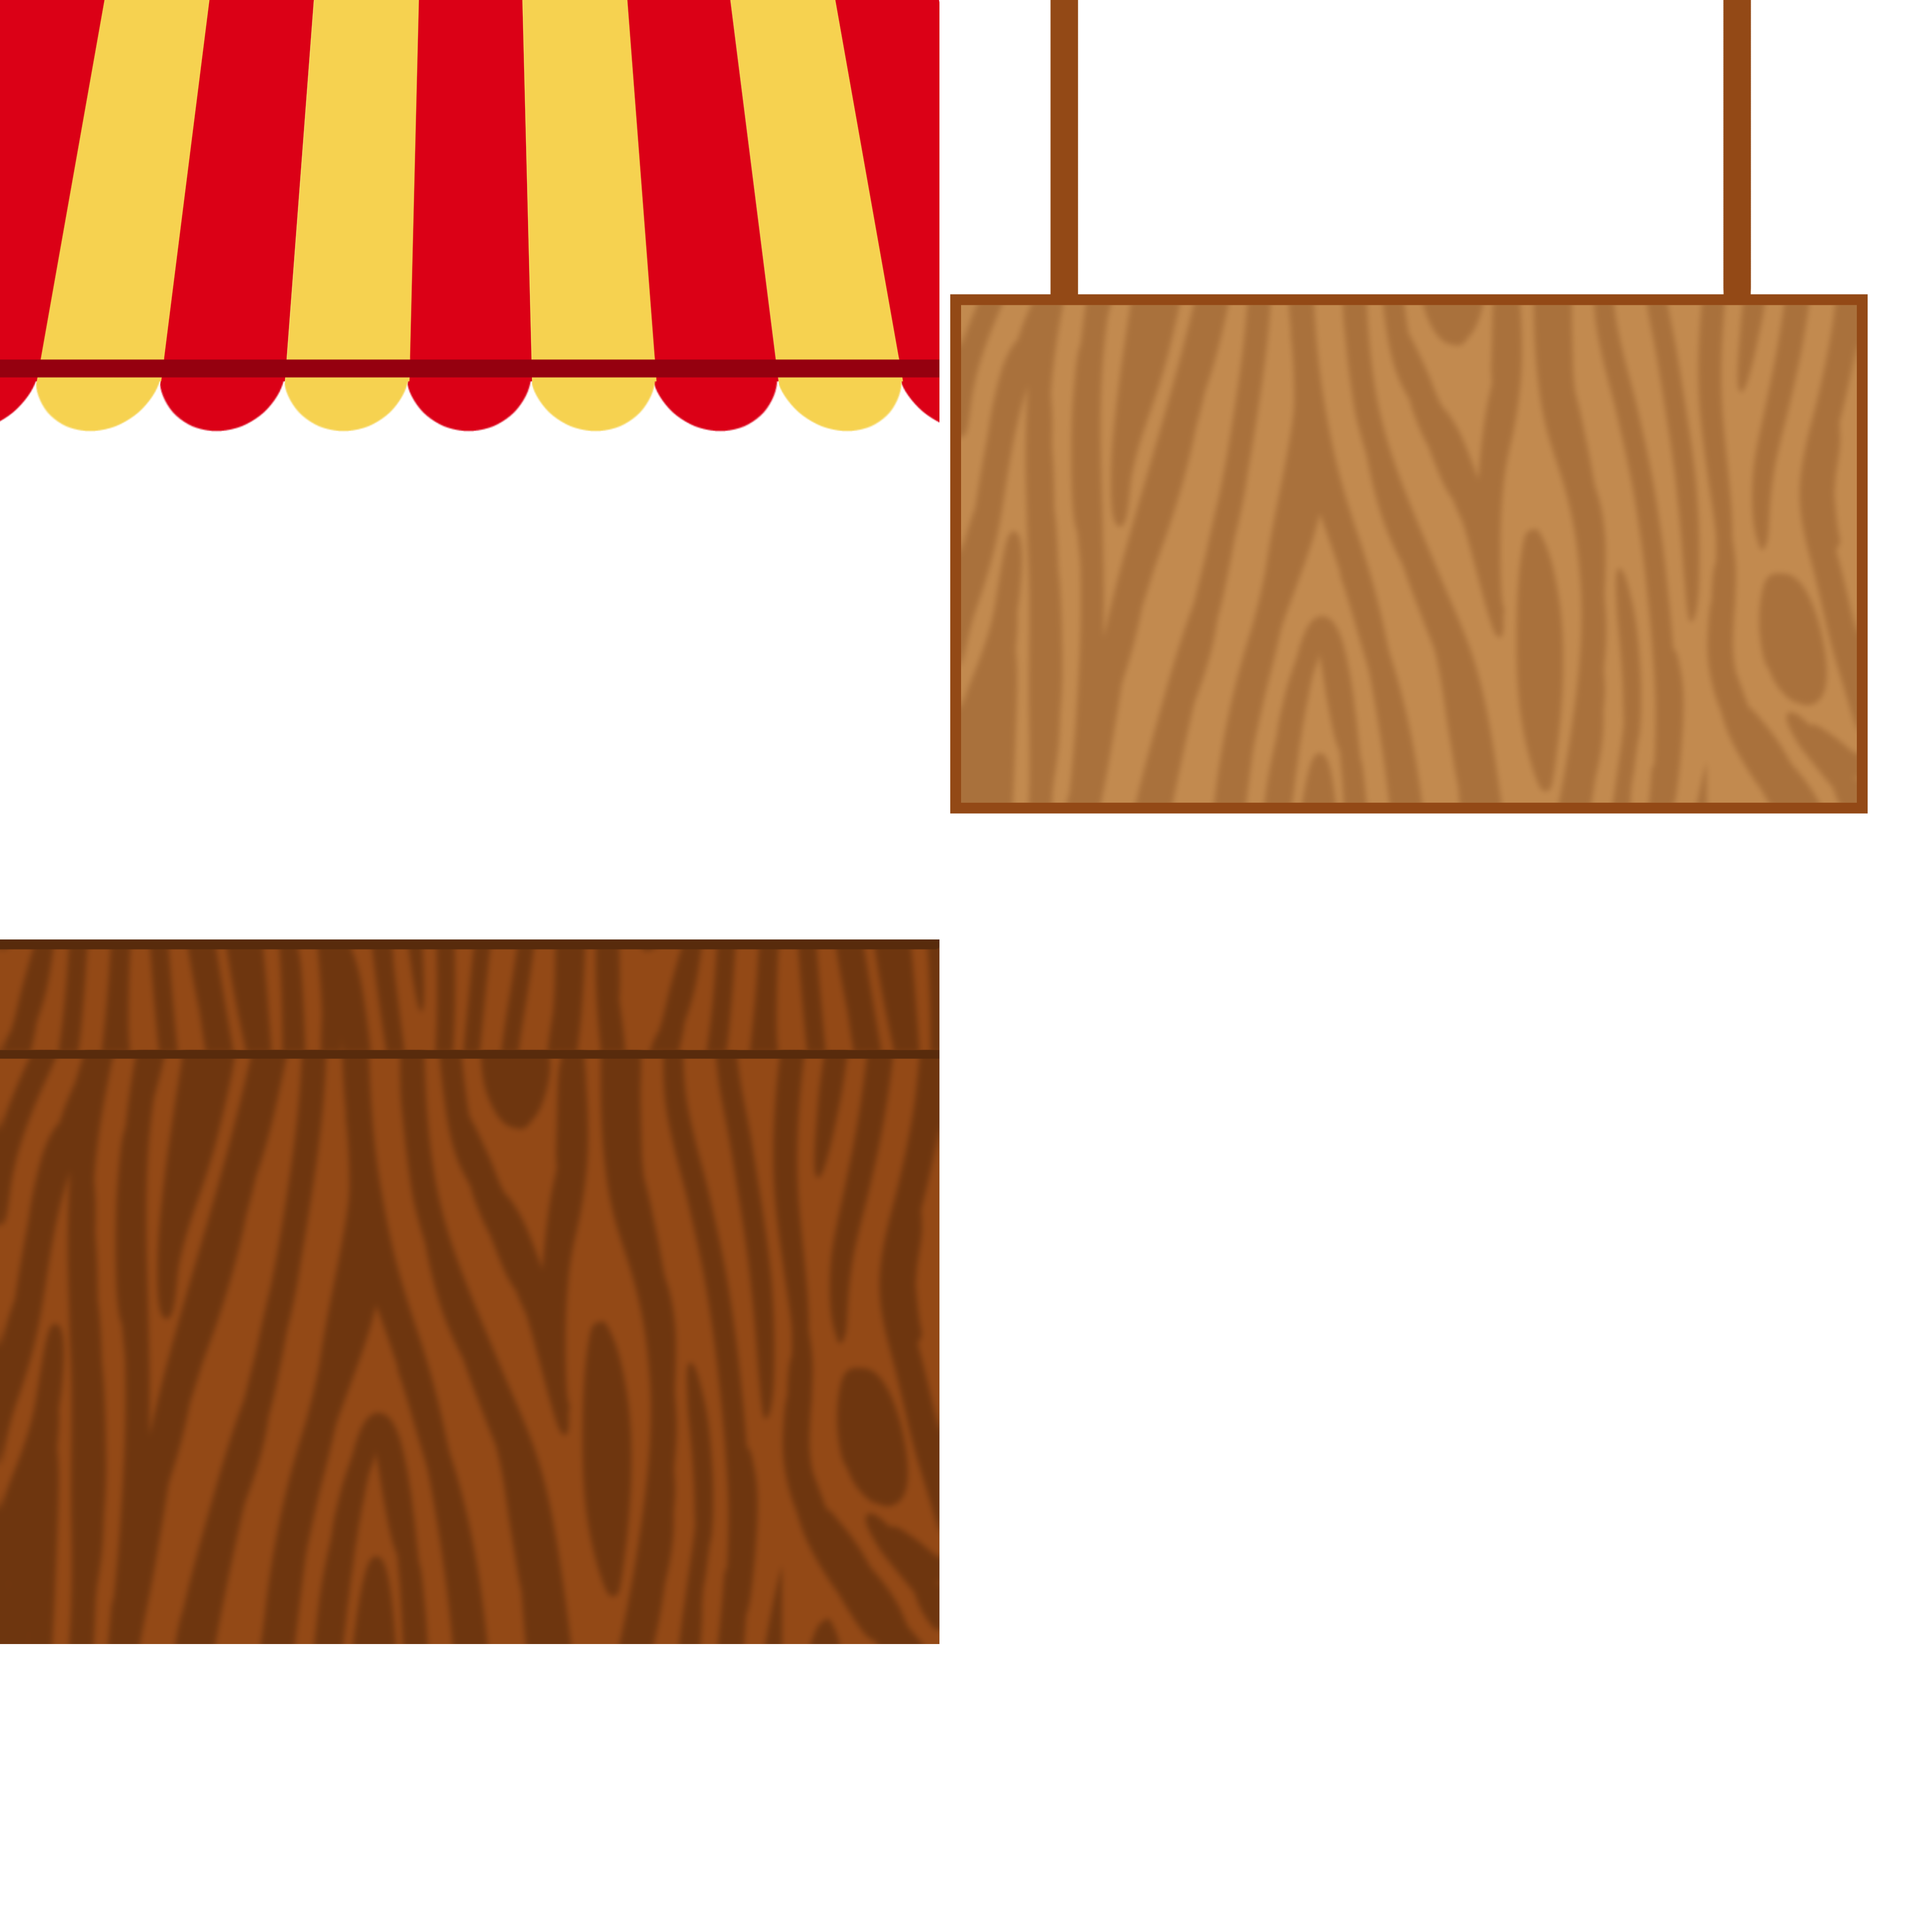
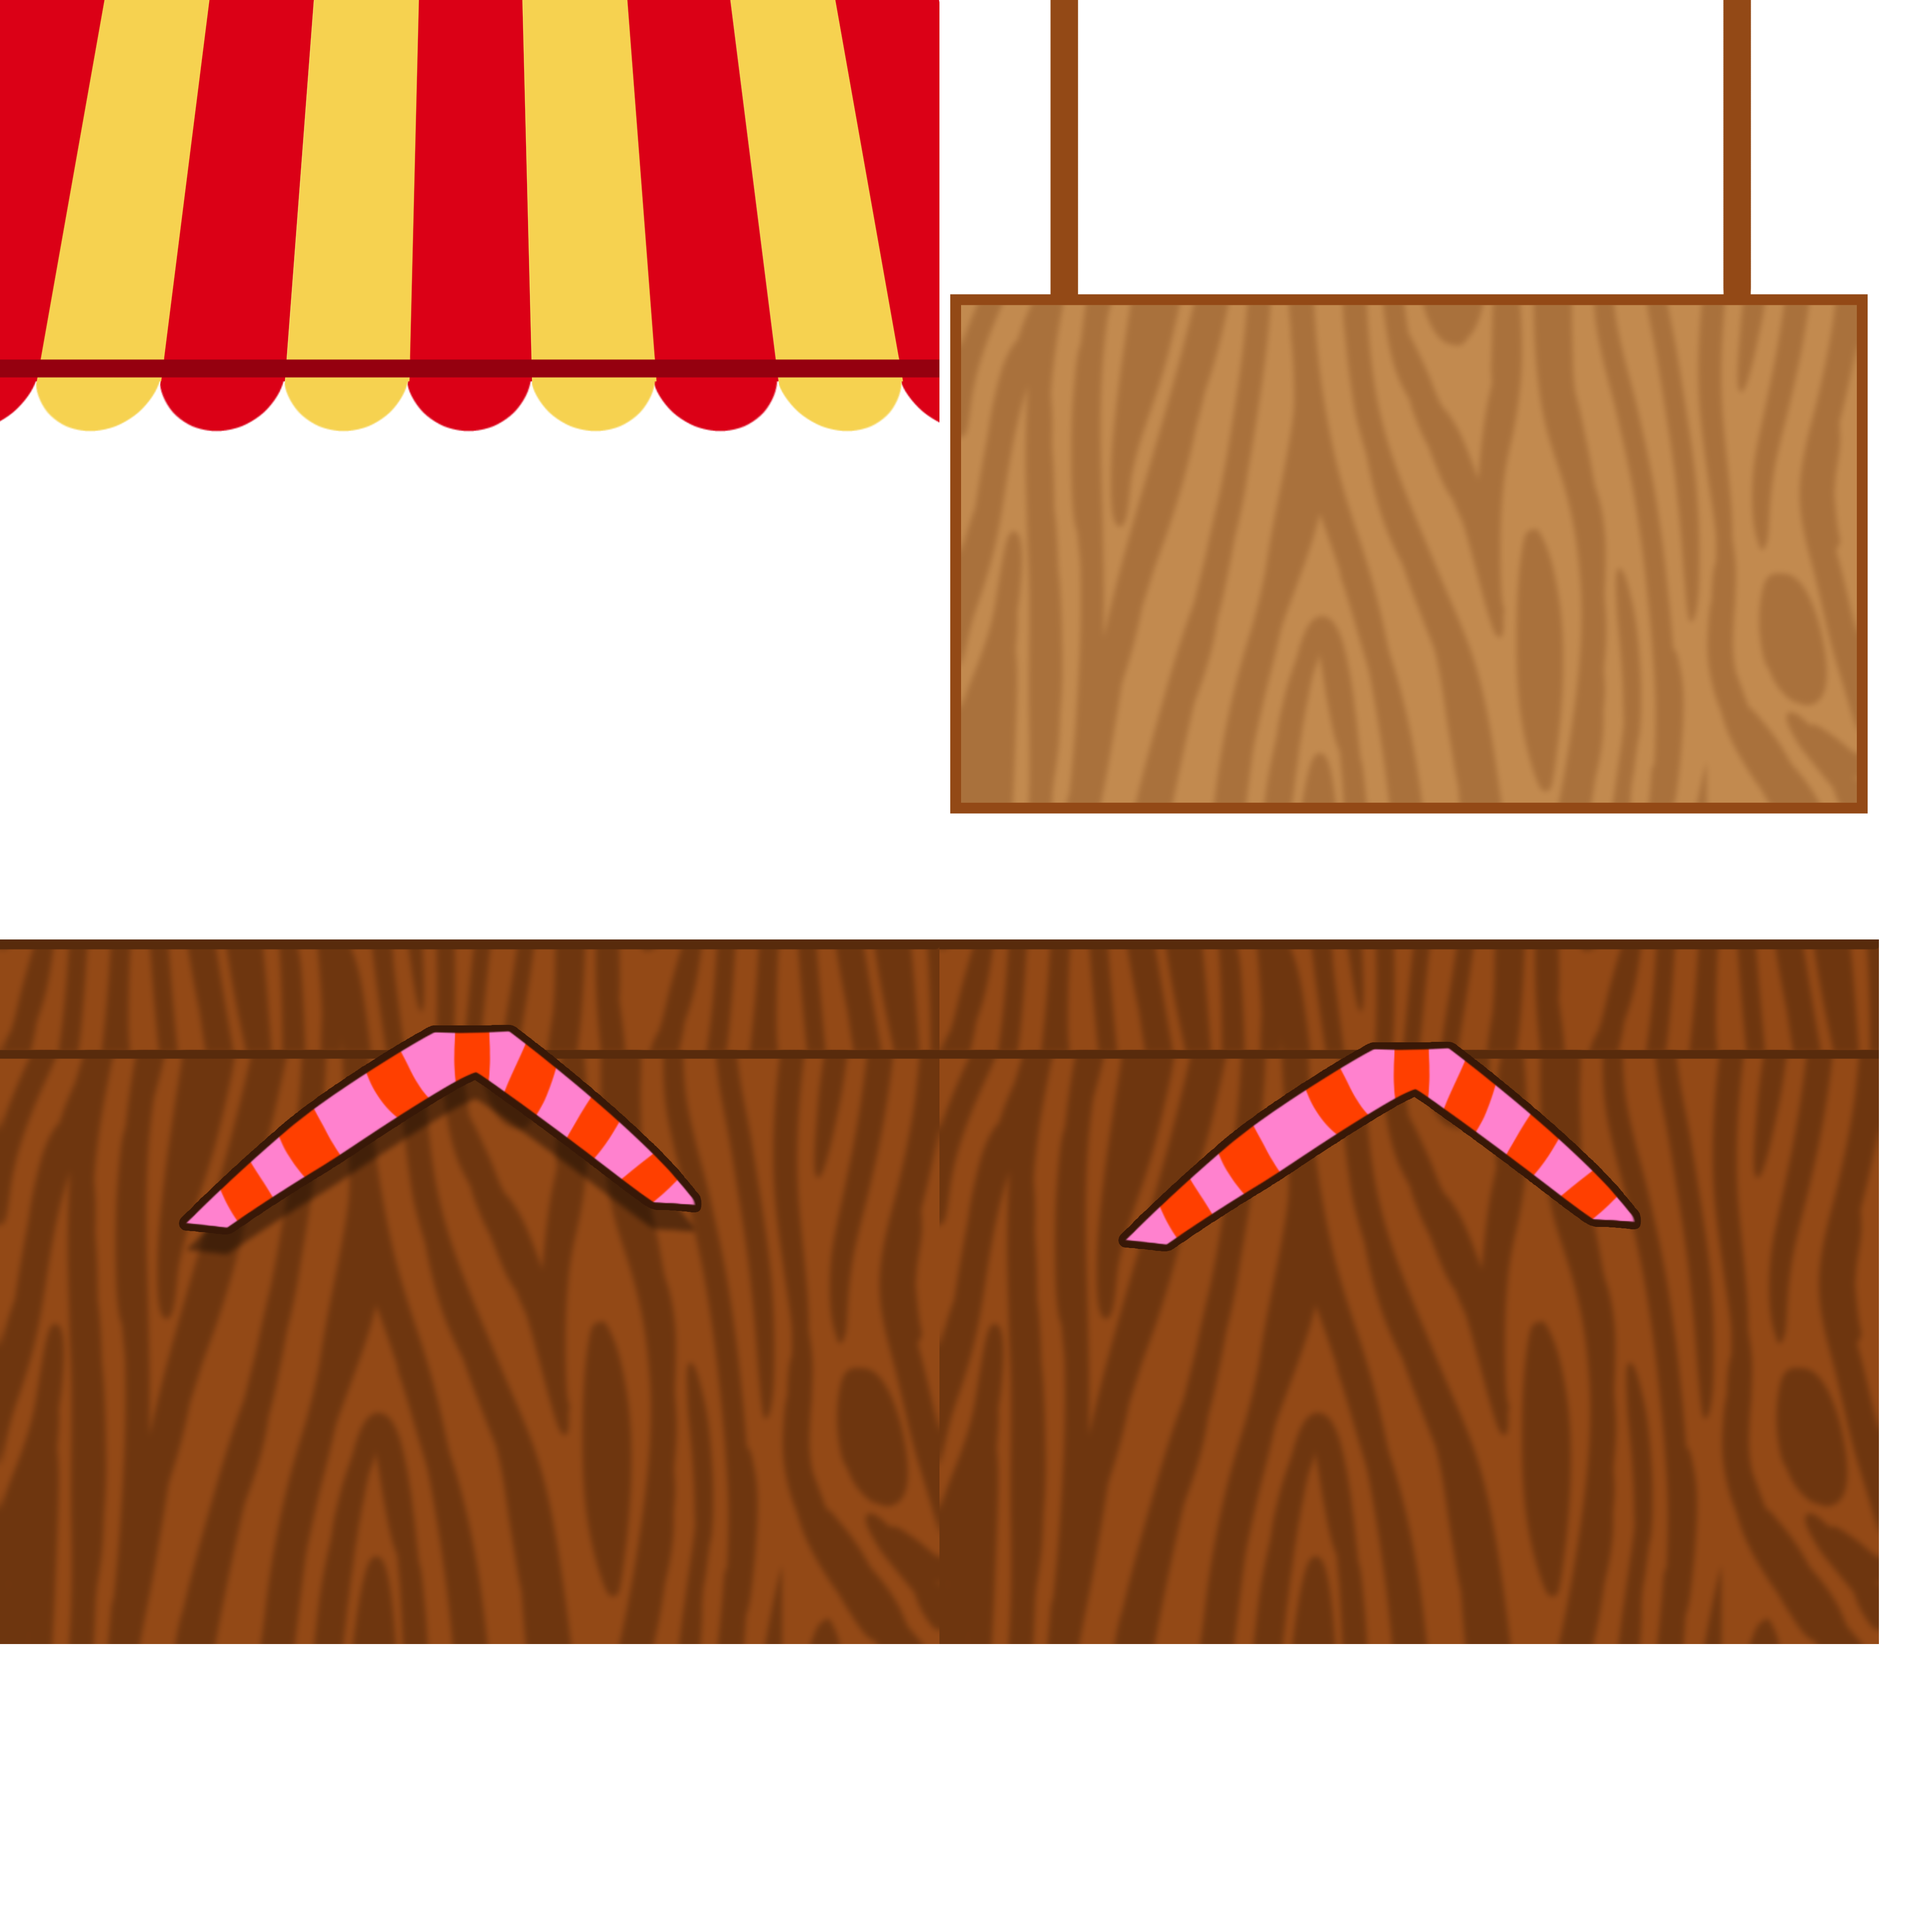
Updated Shop Button Texture

Changed region(s): [[0.4688, 0.4688, 1.0, 0.875], [0.0938, 0.5312, 0.375, 0.6562]]

diff --git a/src/org/qohs/clicker/io/AssetLoader.java b/src/org/qohs/clicker/io/AssetLoader.java
@@ -30,7 +30,7 @@ public class AssetLoader {
 	public static TextureRegion icon_trophy, icon_ribbon, icon_settings, icon_menu_toggle;
 	
 	//INTERFACE REGIONS
-	public static TextureRegion awning, sign, table;
+	public static TextureRegion awning, sign, table, table_clicked;
 
 	public static void load() {
 		
@@ -48,6 +48,7 @@ public class AssetLoader {
 		awning = new TextureRegion(shop, 0, 0, 2000, 2000); awning.flip(false, true);
 		sign = new TextureRegion(shop, 2000, 0, 2000, 2000); sign.flip(false, true);
 		table = new TextureRegion(shop, 0, 2000, 2000, 1500); table.flip(false, true);
+		table_clicked = new TextureRegion(shop, 2000, 2000, 2000, 1500); table_clicked.flip(false, true);
 		
 		icon_trophy = new TextureRegion(icons, 779, 77, 563, 653);icon_trophy.flip(false, true);
 		icon_ribbon = new TextureRegion(icons, 375, 720, 542, 752);icon_ribbon.flip(false, true);

diff --git a/src/org/qohs/clicker/screens/game/gameobjects/buttons/ShopButton.java b/src/org/qohs/clicker/screens/game/gameobjects/buttons/ShopButton.java
@@ -15,7 +15,7 @@ import com.badlogic.gdx.InputProcessor;
 public class ShopButton extends Button implements UpdateRenderObj {
 
 	public ShopButton() {
-		super(0, GameWorld.GAMEHEIGHT*4/5, GameWorld.GAMEWIDTH, GameWorld.GAMEHEIGHT*1/5, AssetLoader.table, AssetLoader.table);
+		super(0, GameWorld.GAMEHEIGHT*4/5, GameWorld.GAMEWIDTH, GameWorld.GAMEHEIGHT*2/5, AssetLoader.table, AssetLoader.table_clicked);
 		System.out.println("SHOP BUTTON CREATED");
 	}
 

diff --git a/src/org/qohs/clicker/screens/util/Button.java b/src/org/qohs/clicker/screens/util/Button.java
@@ -53,12 +53,12 @@ public abstract class Button implements UpdateRenderObj {
 	public void animateClickDown() {
 		animateClick = true;
 		System.out.println("BUTTON DOWN");
-		onClick();
 	}
 	
 	public void animateClickUp() { 
 		animateClick = false;
 		System.out.println("BUTTON UP");
+		onClick();
 	}
 	
 	public boolean collision(int x2, int y2){
